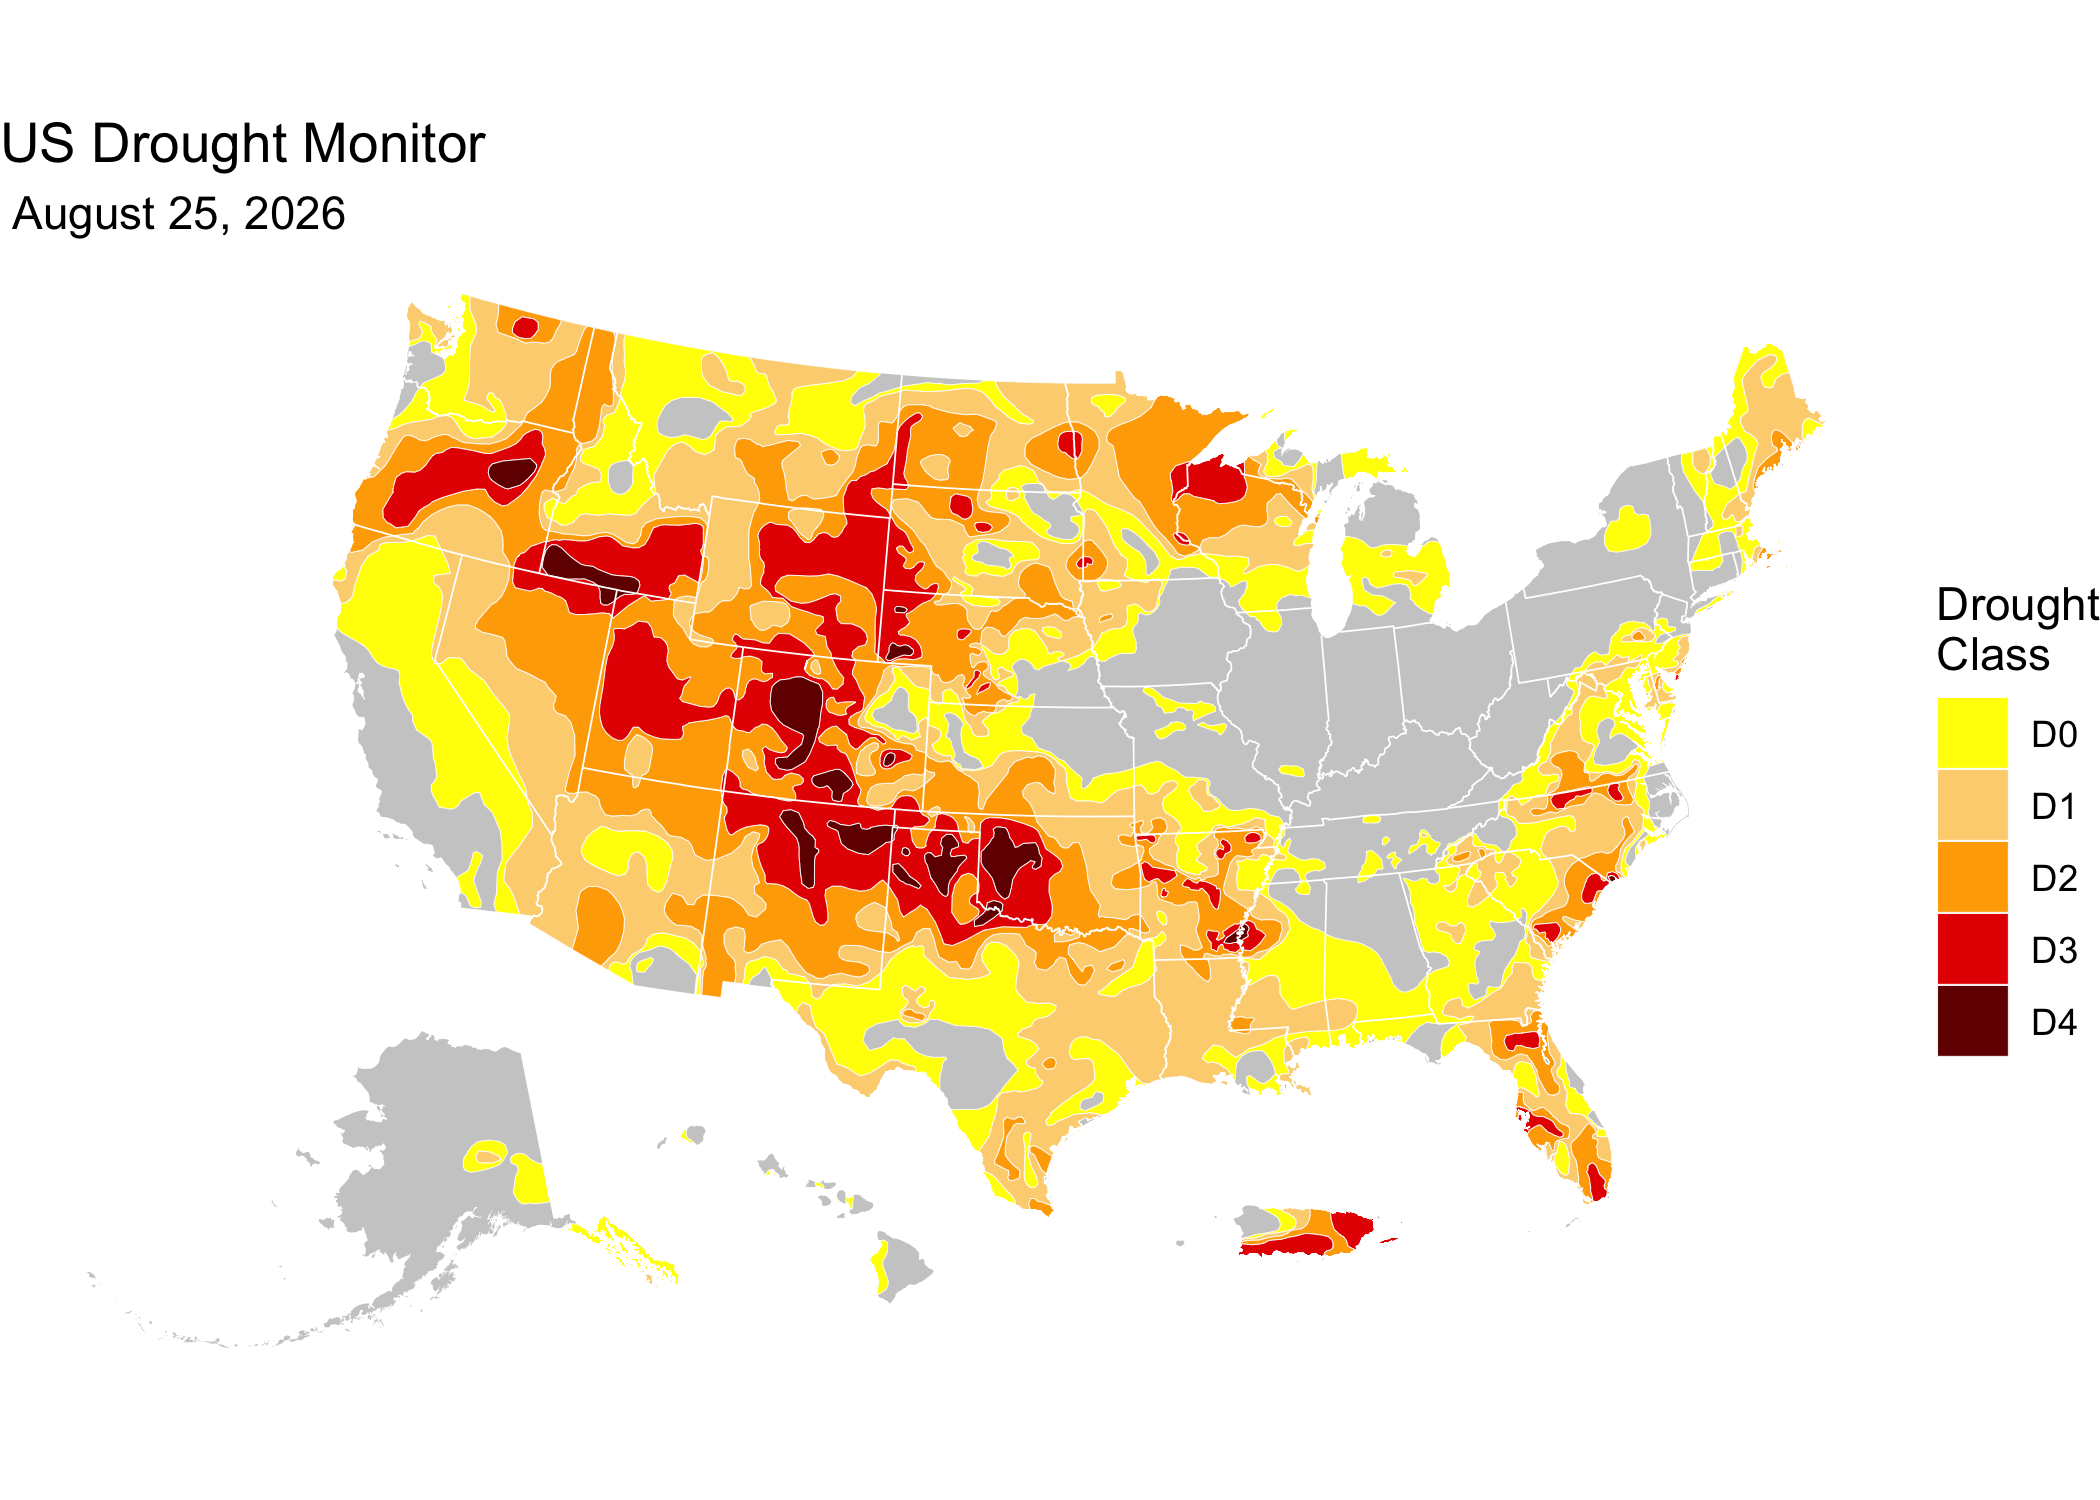
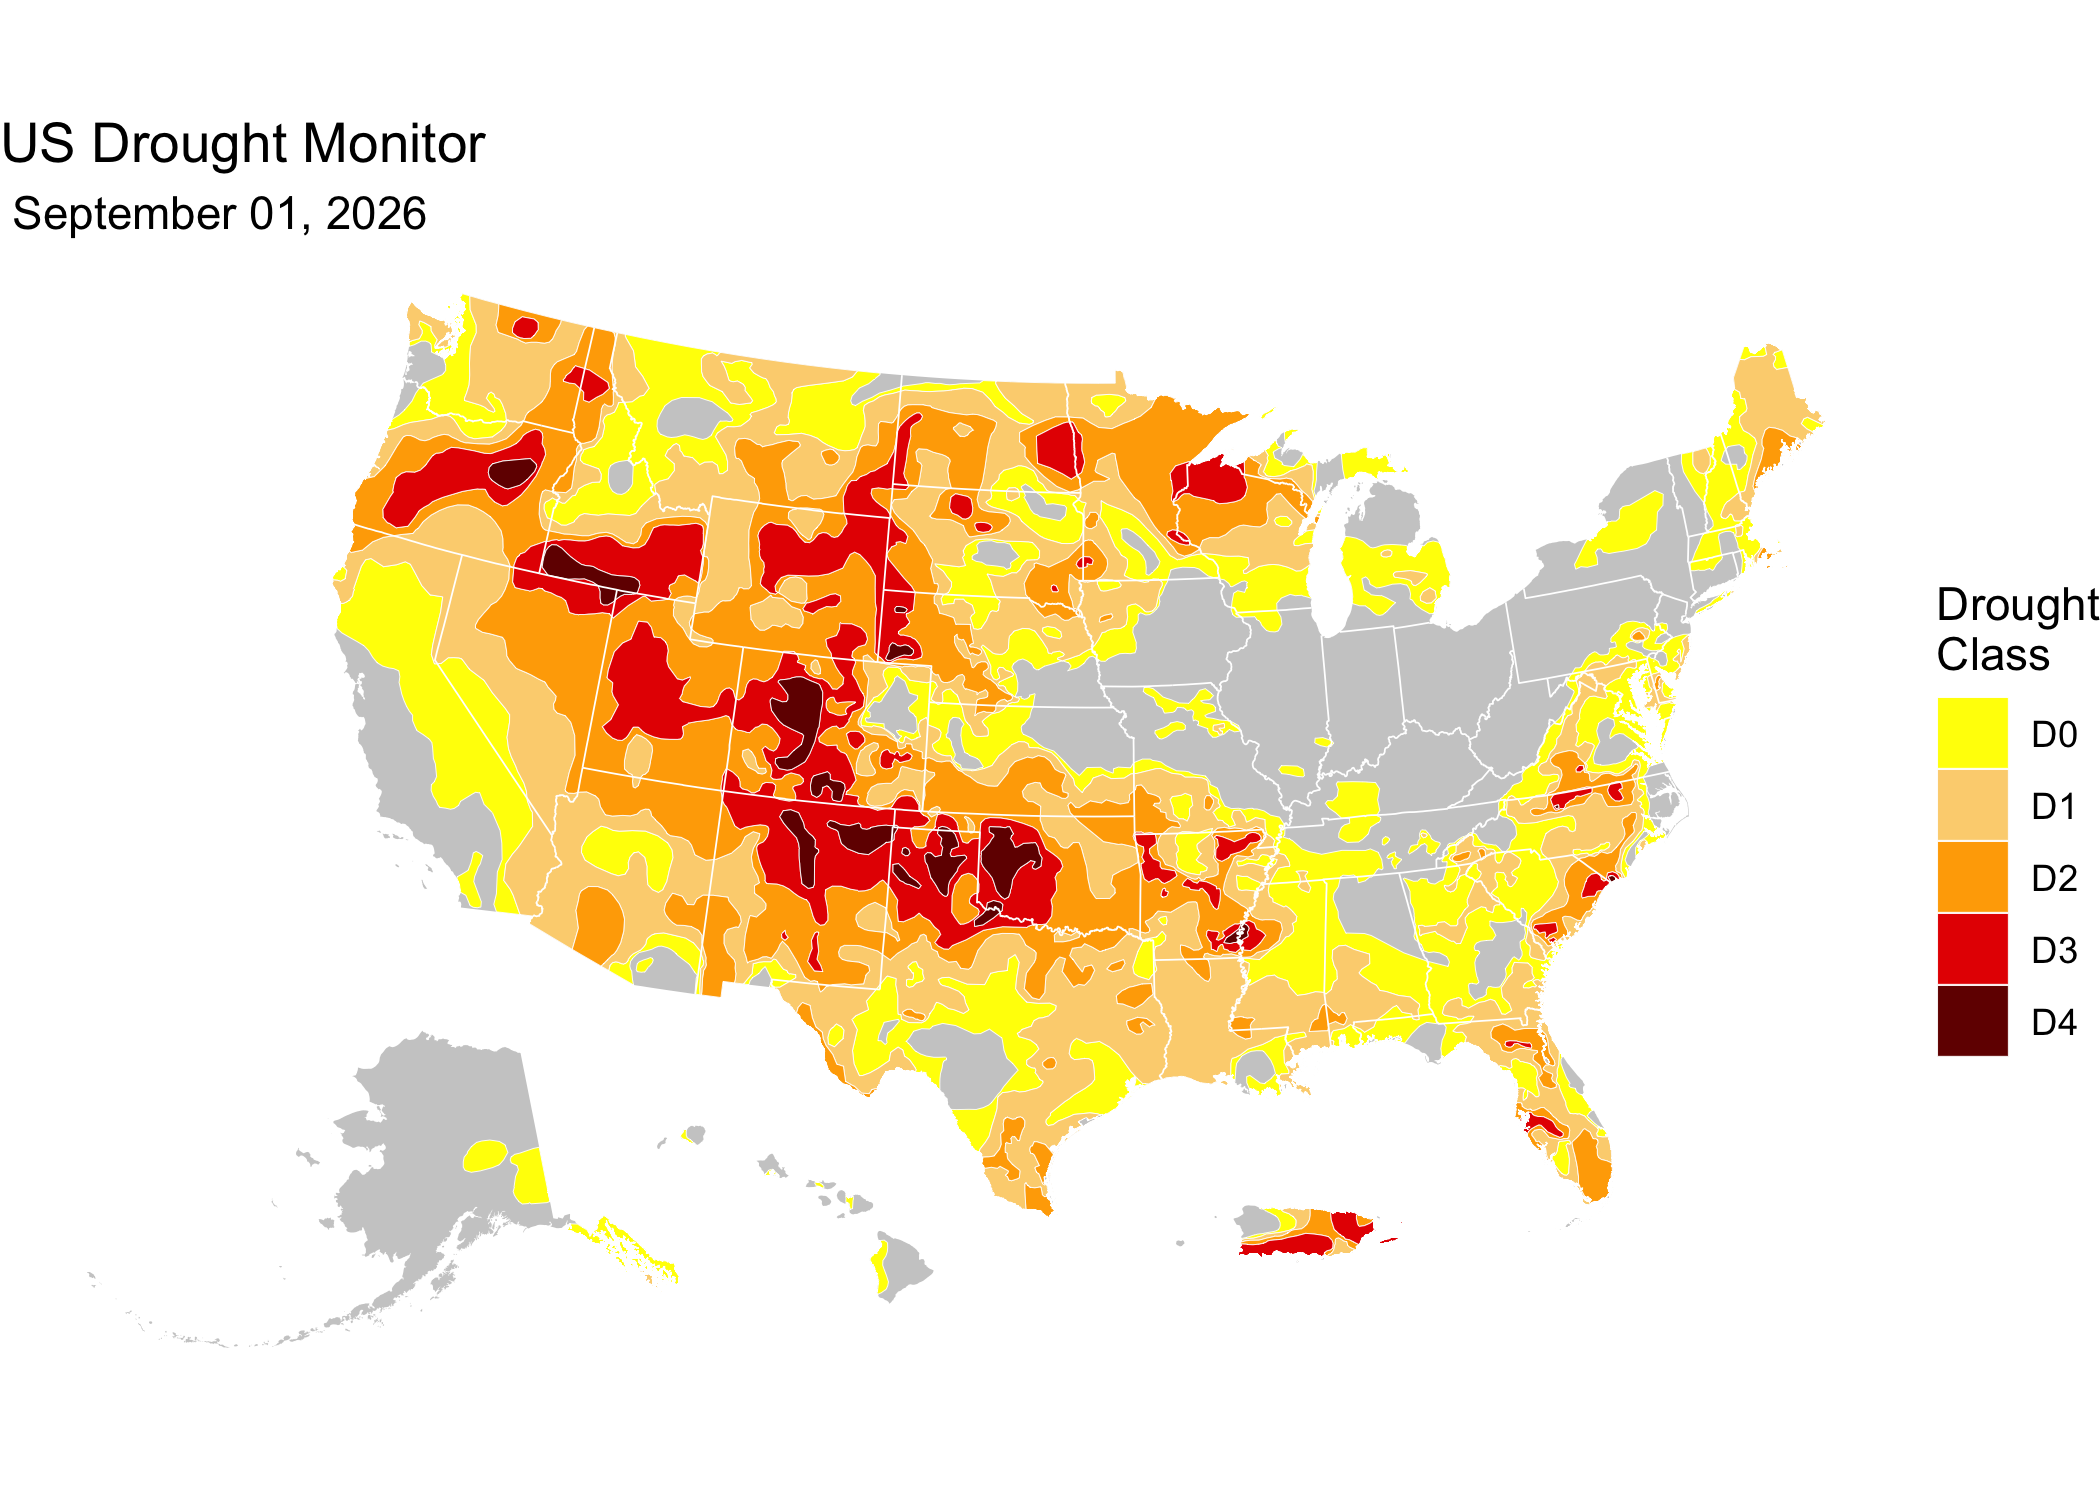
Weekly README render

diff --git a/README.md b/README.md
@@ -277,7 +277,7 @@ ggplot(usdm_sf) +
 
 <img src="./example-1.png" alt="" style="display: block; margin: auto;" />
 
-Latest USDM map date: **August 25, 2026**
+Latest USDM map date: **September 01, 2026**
 
 To work with the **unclipped** product instead — the same weeks, but
 with polygons that extend past the US coastline and *nested* classes
